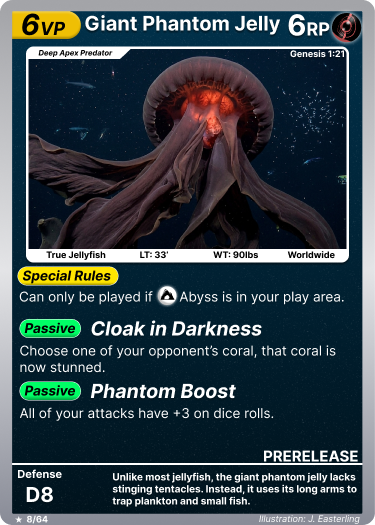
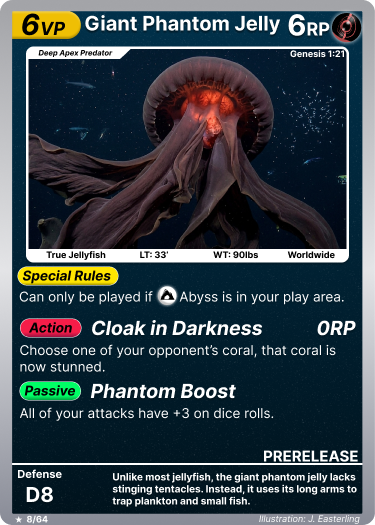
added darkness shroud deck

diff --git a/src/lib/tournaments/deckAnalytics.js b/src/lib/tournaments/deckAnalytics.js
@@ -21,6 +21,7 @@ const OFFENSE_EFFECTS = new Set([
   "stunCoral",
   "preventCardPlay",
   "grantAdvantage",
+  "modifyAttackRoll",
 ]);
 
 const ECONOMY_EFFECTS = new Set([
@@ -105,15 +106,108 @@ function collectEffects(value, effects = []) {
   return effects;
 }
 
-function getCardEffects(card) {
-  return collectEffects([
+function collectTextRules(value, rules = []) {
+  if (!value) return rules;
+
+  if (typeof value === "string") {
+    rules.push(value);
+    return rules;
+  }
+
+  if (Array.isArray(value)) {
+    for (const item of value) {
+      collectTextRules(item, rules);
+    }
+    return rules;
+  }
+
+  return rules;
+}
+
+function wordToNumber(value) {
+  const normalized = String(value ?? "").toLowerCase();
+  if (normalized === "one") return 1;
+  if (normalized === "two") return 2;
+  if (normalized === "three") return 3;
+  if (normalized === "four") return 4;
+  return Number(normalized) || 1;
+}
+
+function getStringRuleEffects(card) {
+  const effects = [];
+  const rules = collectTextRules([
     card.passives,
     card.onPlay,
     card.actions,
-    card.playRequirements,
-    card.effect,
-    card.effects,
+    card.specialRules,
   ]);
+
+  for (const rule of rules) {
+    const text = rule.toLowerCase();
+    const attackMatch = text.match(
+      /(?:(one|two|three|four|\d+)\s+)?(?:x\s*)?d(\d+)(?:\s*[+-]\s*\d+)?\s+attacks?/i
+    );
+
+    if (attackMatch) {
+      effects.push({
+        type: EffectType.ATTACK,
+        attackDice: `D${attackMatch[2]}`,
+        repeat: wordToNumber(attackMatch[1]),
+        target: { controller: "opponent" },
+      });
+    }
+
+    const damageMatch = text.match(/(?:inflict|deal)\s+(\d+)\s*hp\s+(?:of\s+)?damage/i);
+    if (damageMatch) {
+      effects.push({
+        type: EffectType.DAMAGE,
+        amount: { type: "fixed", value: Number(damageMatch[1]) },
+        target: { controller: "opponent" },
+      });
+    }
+
+    if (text.includes("opponent") && text.includes("discard")) {
+      effects.push({
+        type: EffectType.DISCARD_RANDOM_CARD,
+        targetPlayer: "opponent",
+      });
+    }
+
+    if (text.includes("opponent") && text.includes("coral") && text.includes("stun")) {
+      effects.push({
+        type: EffectType.STUN_CORAL,
+        target: { controller: "opponent" },
+      });
+    }
+
+    const attackBuffMatch = text.match(/\+(\d+)\s+(?:on|to)\s+(?:your\s+)?(?:dice\s+rolls?|attack(?: rolls?)?)/i);
+    if (attackBuffMatch) {
+      effects.push({
+        type: "modifyAttackRoll",
+        amount: Number(attackBuffMatch[1]),
+      });
+    }
+
+    if (text.includes("gain advantage") && text.includes("attack")) {
+      effects.push({ type: "grantAdvantage" });
+    }
+  }
+
+  return effects;
+}
+
+function getCardEffects(card) {
+  return [
+    ...collectEffects([
+      card.passives,
+      card.onPlay,
+      card.actions,
+      card.playRequirements,
+      card.effect,
+      card.effects,
+    ]),
+    ...getStringRuleEffects(card),
+  ];
 }
 
 function hasEffectType(effects, targetTypes) {
@@ -204,6 +298,11 @@ function getCardTraitScores(card, effects, rpCost) {
 
     if (OFFENSE_EFFECTS.has(effect.type)) {
       scores.offense += targetsOpponent(effect) ? 5 : 3;
+    }
+
+    if (effect.type === "modifyAttackRoll") {
+      scores.offense += Math.max(2, amount * 4);
+      scores.tempo += Math.max(1, amount);
     }
 
     if (

diff --git a/src/data/tournaments/prebuiltDecks.js b/src/data/tournaments/prebuiltDecks.js
@@ -175,6 +175,49 @@ export const prebuiltDecks = [
     ],
   },
   {
+    id: "darkness-shroud",
+    name: "Darkness Shroud",
+    cards: [
+      { cardId: "abyss", quantity: 1 },
+      { cardId: "bamboo_coral_base", quantity: 3 },
+      { cardId: "bamboo_coral_stage1", quantity: 2 },
+      { cardId: "bamboo_coral_stage2", quantity: 1 },
+      { cardId: "black_coral_base", quantity: 3 },
+      { cardId: "black_coral_stage1", quantity: 2 },
+      { cardId: "black_coral_stage2", quantity: 1 },
+      { cardId: "deep_mushroom_base", quantity: 2 },
+      { cardId: "deep_mushroom_stage1", quantity: 1 },
+      { cardId: "deep_mushroom_stage2", quantity: 1 },
+      { cardId: "scientist-jes", quantity: 3 },
+      { cardId: "coral-gardener", quantity: 2 },
+      { cardId: "remote-search", quantity: 3 },
+      { cardId: "deep-sea-fishing", quantity: 2 },
+      { cardId: "crab-trap", quantity: 2 },
+      { cardId: "fishing", quantity: 1 },
+      { cardId: "dr-evans", quantity: 1 },
+      { cardId: "coral-cement", quantity: 1 },
+      { cardId: "owlfish", quantity: 1 },
+      { cardId: "barrel-eye-fish", quantity: 3 },
+      { cardId: "bristlemouth", quantity: 2 },
+      { cardId: "humpback-anglerfish", quantity: 2 },
+      { cardId: "fangtooth-fish", quantity: 1 },
+      { cardId: "viperfish", quantity: 1 },
+      { cardId: "black-swallower", quantity: 2 },
+      { cardId: "deep-sea-jelly", quantity: 2 },
+      { cardId: "deep-cucumber", quantity: 2 },
+      { cardId: "giant-red-shrimp", quantity: 2 },
+      { cardId: "vampire-squid", quantity: 1 },
+      { cardId: "gulper-eel", quantity: 2 },
+      { cardId: "cookie-cutter-shark", quantity: 1 },
+      { cardId: "deep-sea-skate", quantity: 1 },
+      { cardId: "chimera", quantity: 1 },
+      { cardId: "goblin-shark", quantity: 1 },
+      { cardId: "giant-phantom-jelly", quantity: 1 },
+      { cardId: "giant-squid", quantity: 1 },
+      { cardId: "colossal-squid", quantity: 1 },
+    ],
+  },
+  {
     id: "murky-water",
     name: "Murky Water",
     cards: [
